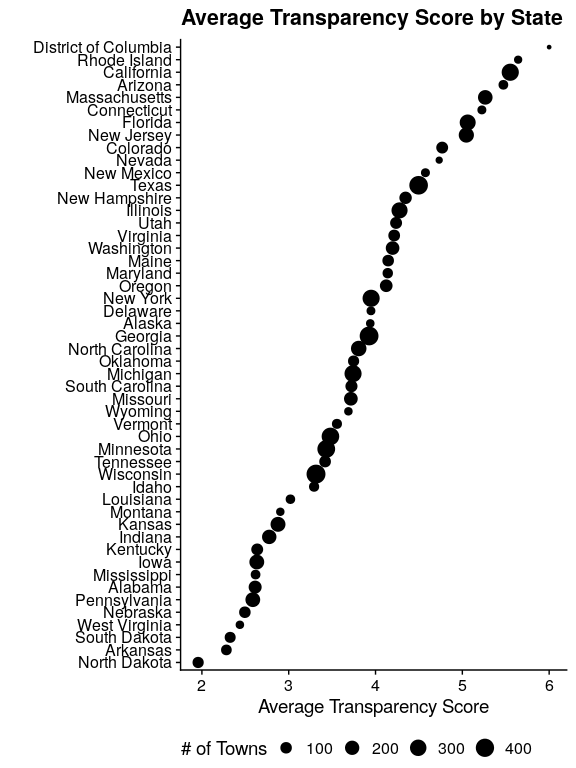
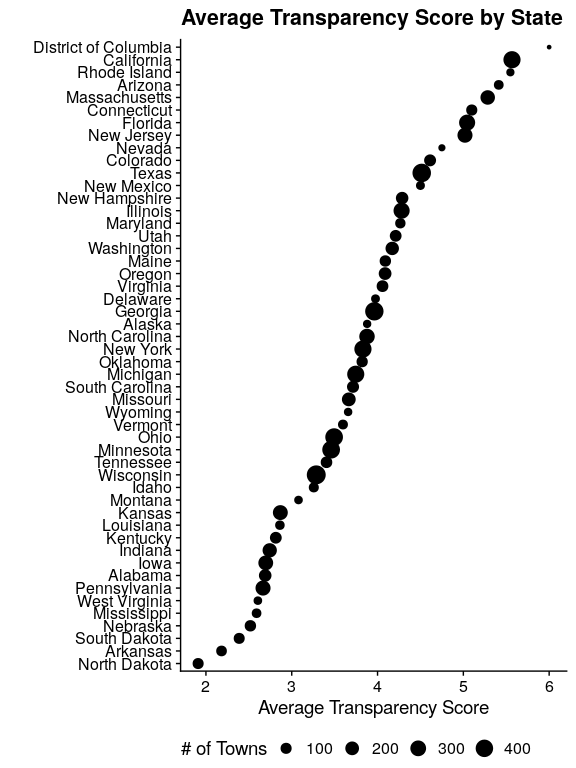
Model update 6/29/2020

diff --git a/reports/model_performance.md b/reports/model_performance.md
@@ -64,13 +64,7 @@ BDG
 
 <td style="text-align:right;">
 
-0.67
-
-</td>
-
-<td style="text-align:right;">
-
-0.80
+0.66
 
 </td>
 
@@ -82,7 +76,13 @@ BDG
 
 <td style="text-align:right;">
 
-0.82
+0.70
+
+</td>
+
+<td style="text-align:right;">
+
+0.81
 
 </td>
 
@@ -104,13 +104,13 @@ AGD
 
 <td style="text-align:right;">
 
-0.86
+0.85
 
 </td>
 
 <td style="text-align:right;">
 
-0.79
+0.78
 
 </td>
 
@@ -132,19 +132,19 @@ BID
 
 <td style="text-align:right;">
 
-0.52
+0.51
 
 </td>
 
 <td style="text-align:right;">
 
-0.80
+0.79
 
 </td>
 
 <td style="text-align:right;">
 
-0.83
+0.81
 
 </td>
 
@@ -166,25 +166,25 @@ CAFR
 
 <td style="text-align:right;">
 
-0.57
+0.56
 
 </td>
 
 <td style="text-align:right;">
 
-0.79
+0.77
 
 </td>
 
 <td style="text-align:right;">
 
-0.79
+0.77
 
 </td>
 
 <td style="text-align:right;">
 
-0.79
+0.77
 
 </td>
 
@@ -200,25 +200,25 @@ MIN
 
 <td style="text-align:right;">
 
-0.82
+0.81
 
 </td>
 
 <td style="text-align:right;">
 
-0.86
+0.85
 
 </td>
 
 <td style="text-align:right;">
 
-0.66
+0.67
 
 </td>
 
 <td style="text-align:right;">
 
-0.88
+0.87
 
 </td>
 
@@ -240,13 +240,13 @@ REC
 
 <td style="text-align:right;">
 
-0.75
+0.76
 
 </td>
 
 <td style="text-align:right;">
 
-0.77
+0.76
 
 </td>
 

diff --git a/reports/transparency_scores_descriptive.md b/reports/transparency_scores_descriptive.md
@@ -1,6 +1,9 @@
-**Last Update**: 2020-06-24
+Transparency Scores Descriptive Analyses
+================
 
-As of now, we have 7800 towns with predicted transparency scores.
+**Last Update**: 2020-06-29
+
+As of now, we have 8800 towns with predicted transparency scores.
 
 ## Transparency Scores by State
 
